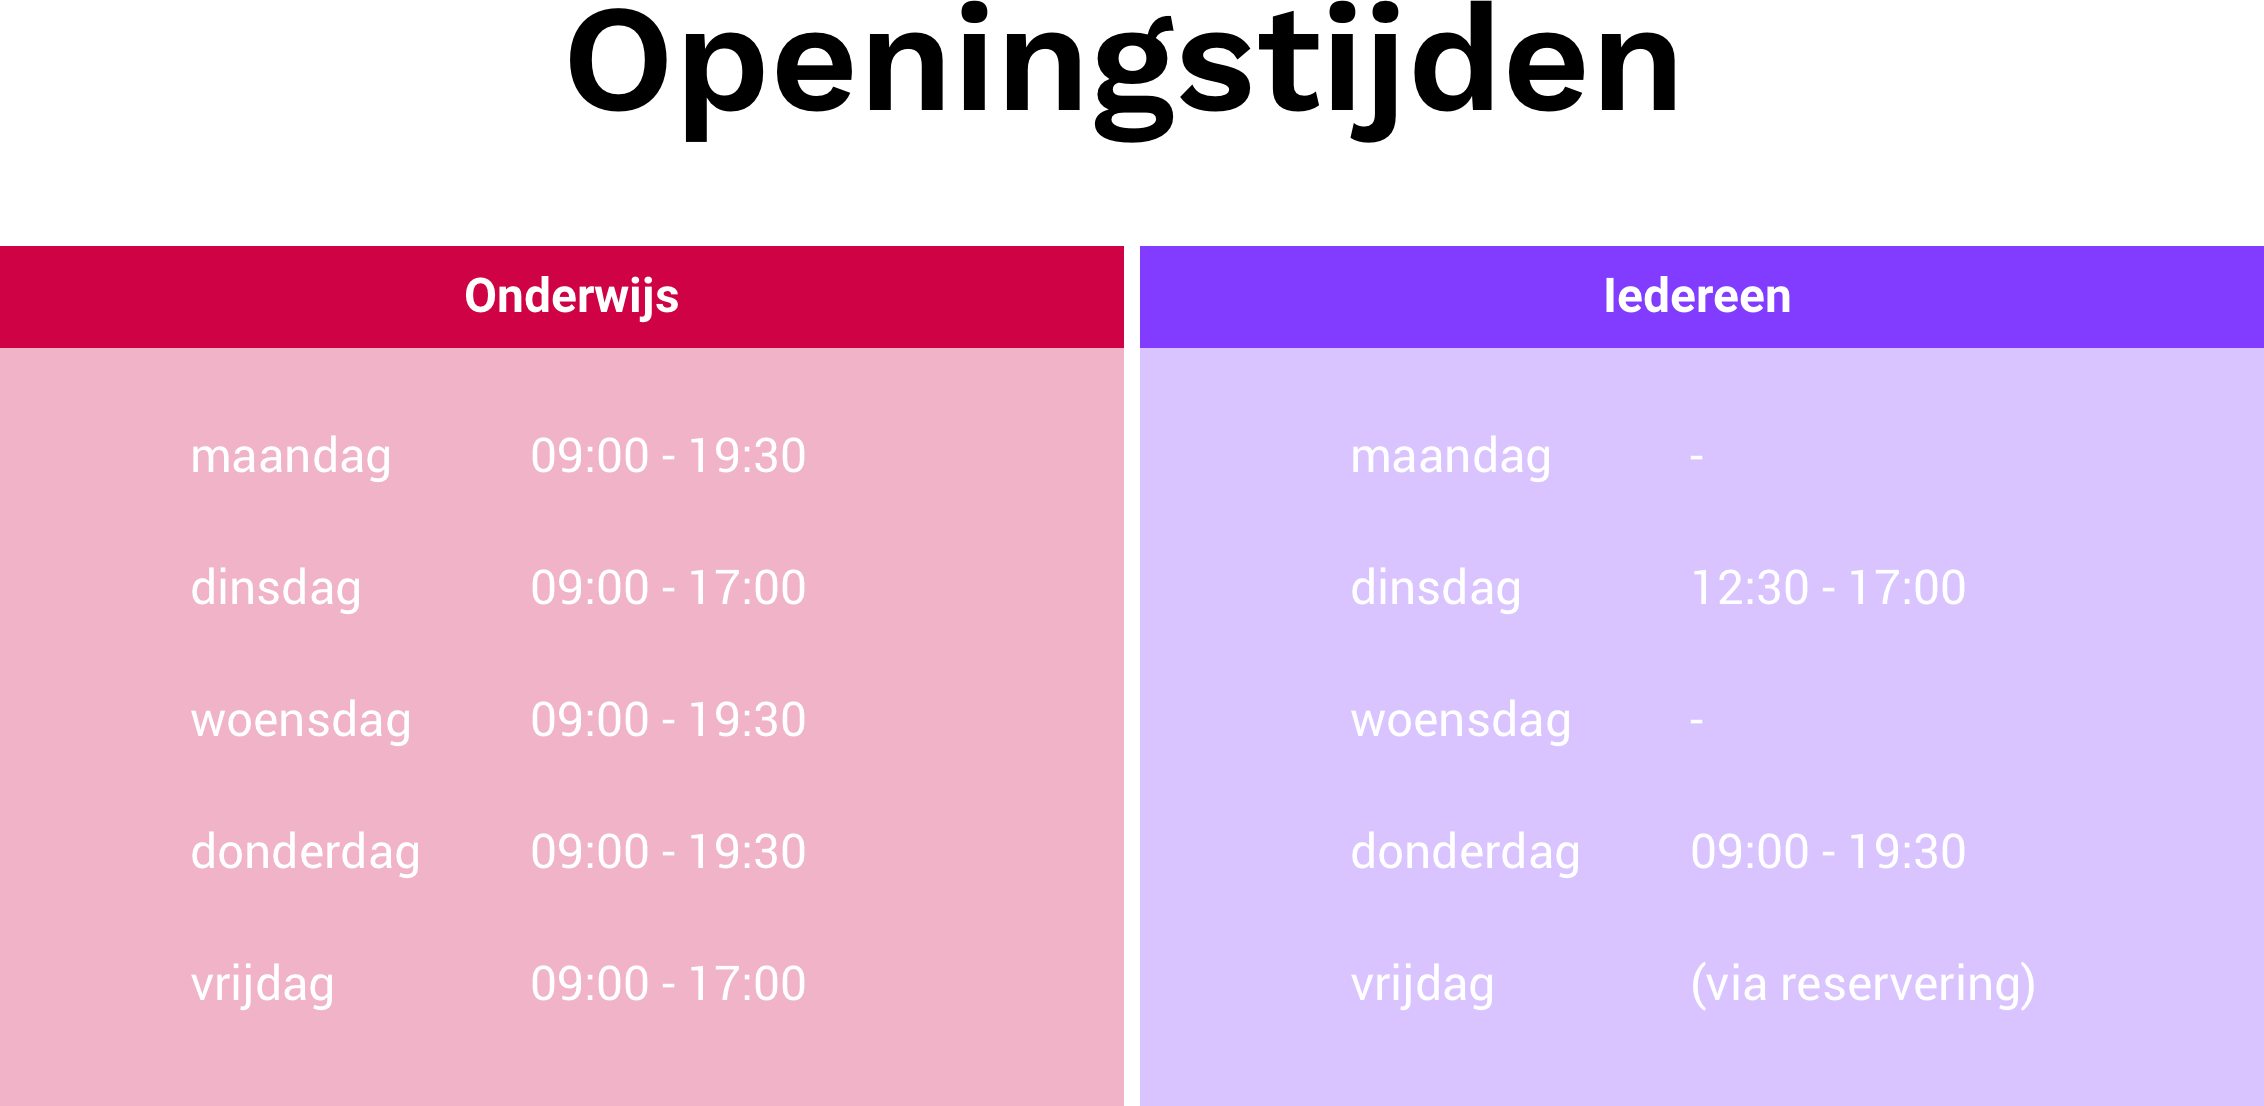
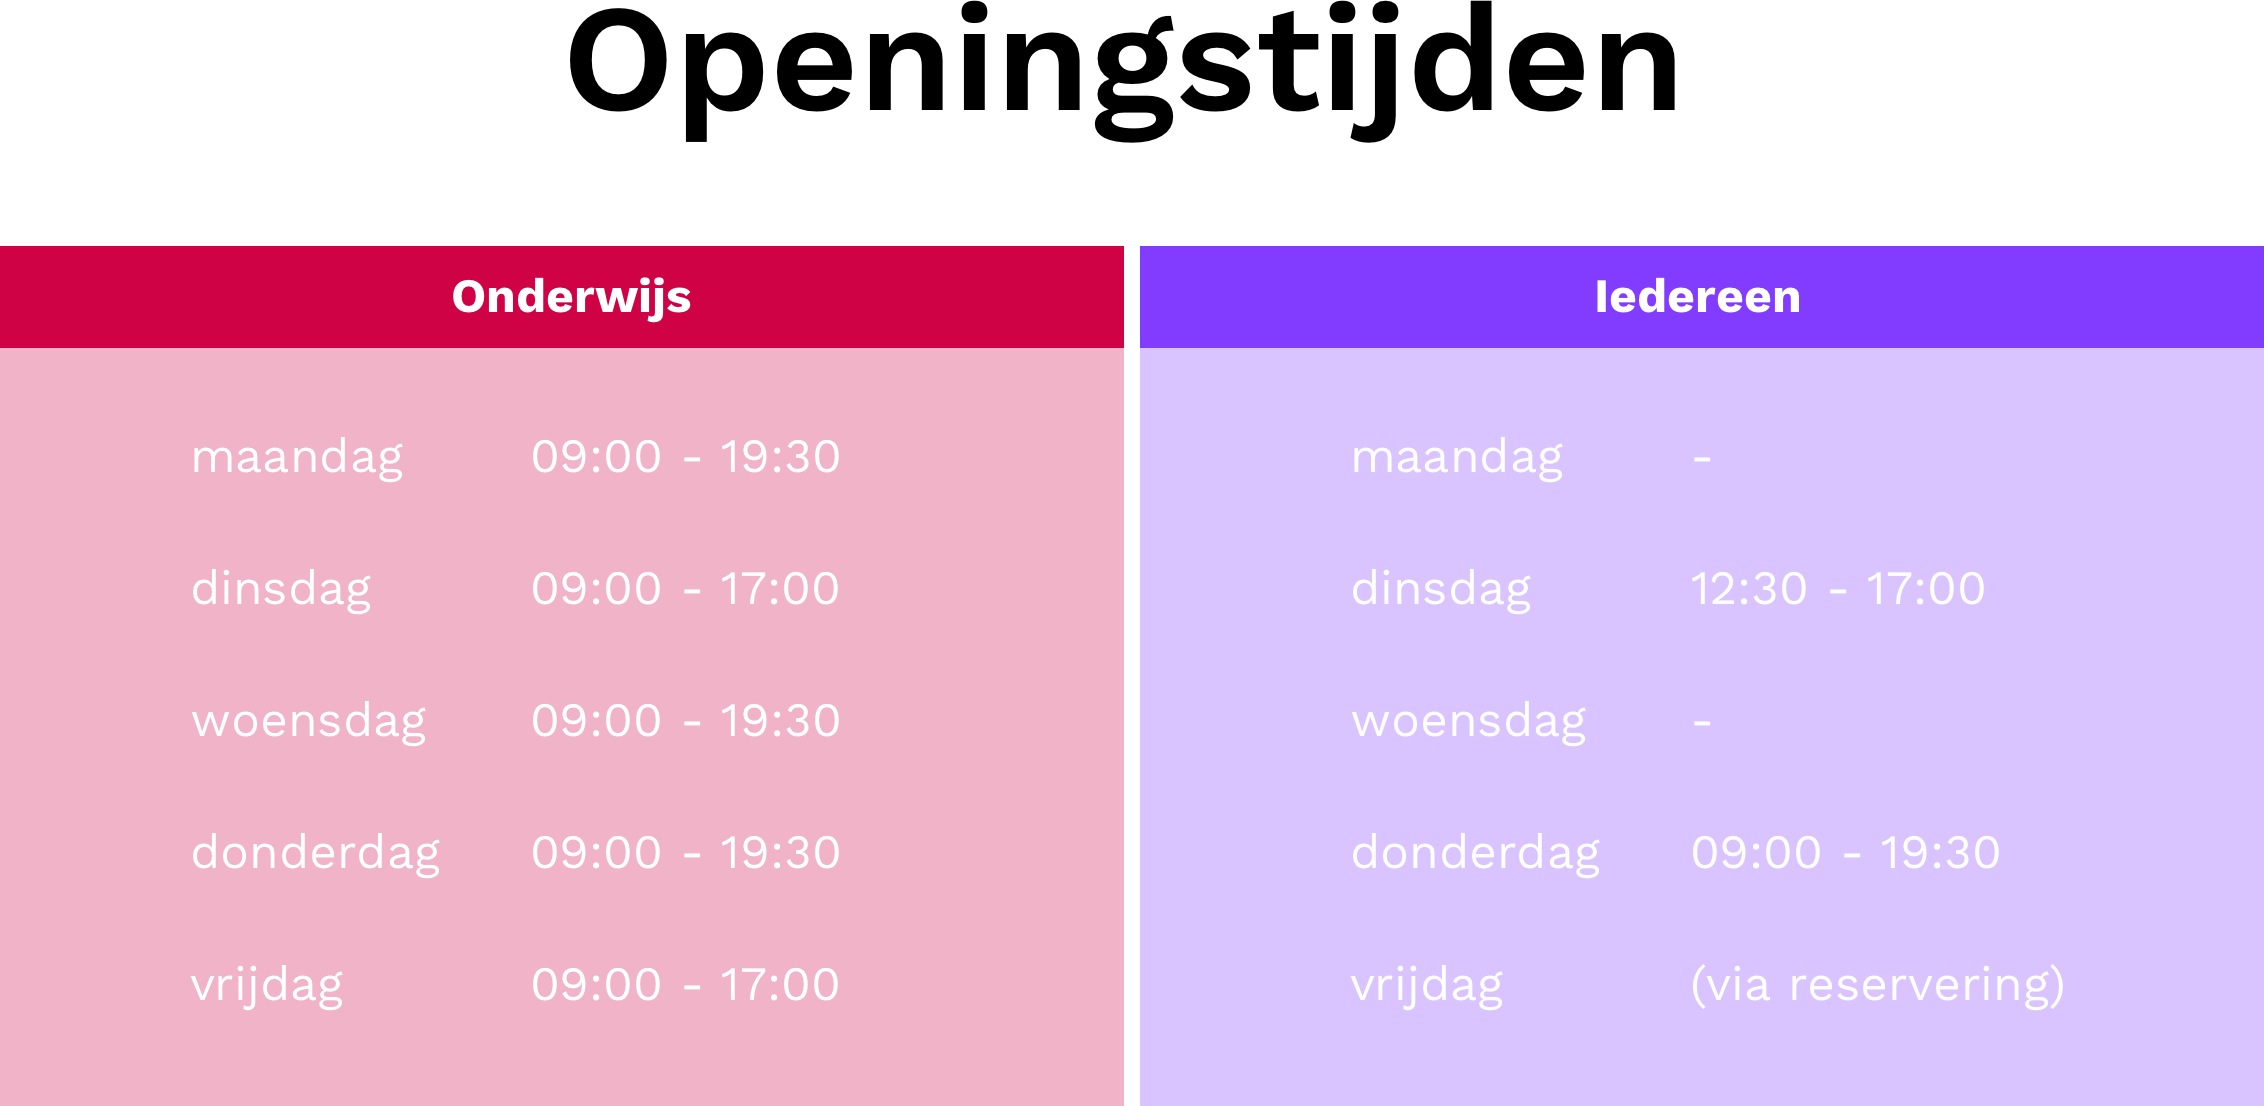
added content & new styling

diff --git a/css/main.css b/css/main.css
@@ -1,7 +1,7 @@
-@import url("https://fonts.googleapis.com/css?family=Roboto:300,400,500|Work+Sans:400,600");
+@import url("https://fonts.googleapis.com/css?family=Roboto:300,400,500|Work+Sans:400, 500,600");
 html {
   color: #333;
-  font-family: "Roboto", sans-serif;
+  font-family: "Work Sans", sans-serif;
   font-size: 100%;
   line-height: 1.5; }
 
@@ -46,7 +46,7 @@ p {
       font-size: 12px; } }
 
 strong {
-  font-weight: 500; }
+  font-weight: 600; }
 
 a {
   color: #1565c0;
@@ -101,7 +101,7 @@ main {
   min-height: -webkit-calc((9 / 16) * 100vw);
   min-height: calc((9 / 16) * 100vw);
   position: relative;
-  background-image: url("../assets/img/stadslab.jpg");
+  background-image: url("../assets/img/stadslab_front.jpg");
   -webkit-background-size: cover;
           background-size: cover;
   background-position: center center; }
@@ -119,7 +119,7 @@ main {
     color: white;
     margin-bottom: 0; }
   .hero__meta h2 {
-    font-family: "Roboto", sans-serif;
+    font-family: "Work Sans", sans-serif;
     font-size: 23px;
     line-height: 30px;
     font-weight: 400; }
@@ -144,7 +144,7 @@ main {
     display: inline-block;
     position: relative;
     text-align: center;
-    color: #E8AE21;
+    color: #ffce00;
     text-decoration: none;
     font-size: 20px;
     overflow: hidden;
@@ -152,7 +152,7 @@ main {
     .container a:after {
       content: '';
       position: absolute;
-      background: #E8AE21;
+      background: #ffce00;
       height: 2px;
       width: 0%;
       -webkit-transform: translateX(-50%);
@@ -211,7 +211,7 @@ main {
 
 .overlay {
   position: fixed;
-  background: #E8AE21;
+  background: #ffce00;
   top: 0;
   left: 0;
   width: 100%;
@@ -327,30 +327,32 @@ h2.post-wrapper {
     h2.post-wrapper {
       font-size: 24px; } }
 
-section.post-wrapper h3 {
-  font-family: "Roboto", sans-serif;
-  font-size: 24px;
-  line-height: 1.3em;
-  font-weight: 700;
-  margin-top: 0;
-  margin-bottom: 0; }
-  @media (max-width: 767px) {
-    section.post-wrapper h3 {
-      font-size: 16px; } }
-
-section.post-wrapper p {
-  font-family: "Work Sans", sans-serif;
-  font-size: 21px;
-  margin-bottom: 1.5em; }
-  @media (max-width: 767px) {
-    section.post-wrapper p {
-      font-size: 11px; } }
-
-section.post-wrapper ul {
-  font-family: "Roboto", sans-serif;
-  font-size: 24px;
-  font-weight: 300;
-  line-height: 2.75em; }
-  @media (max-width: 767px) {
-    section.post-wrapper ul {
-      font-size: 12px; } }
+section.post-wrapper {
+  /*
+    ul{ 
+        font-family: $base-font-family;
+        font-size: 24px;
+        font-weight:300;
+        //line-height:2.75em;
+        @include phone{
+            font-size:12px;
+        }
+    }
+    */ }
+  section.post-wrapper h3 {
+    font-family: "Work Sans", sans-serif;
+    font-size: 24px;
+    line-height: 1.3em;
+    font-weight: 700;
+    margin-top: 0;
+    margin-bottom: 0; }
+    @media (max-width: 767px) {
+      section.post-wrapper h3 {
+        font-size: 16px; } }
+  section.post-wrapper p, section.post-wrapper ul {
+    font-family: "Work Sans", sans-serif;
+    font-size: 21px;
+    margin-bottom: 1.5em; }
+    @media (max-width: 767px) {
+      section.post-wrapper p, section.post-wrapper ul {
+        font-size: 11px; } }

diff --git a/_scss/_post.scss b/_scss/_post.scss
@@ -34,7 +34,7 @@ section.post-wrapper{
             font-size:16px;
         }
     }
-    p{  
+    p, ul{  
         font-family: $heading-font-family;
         font-size: 21px;
         margin-bottom: $base-spacing;
@@ -42,13 +42,15 @@ section.post-wrapper{
             font-size:11px;
           }
     }
+    /*
     ul{ 
         font-family: $base-font-family;
         font-size: 24px;
         font-weight:300;
-        line-height:2.75em;
+        //line-height:2.75em;
         @include phone{
             font-size:12px;
         }
     }
+    */
 }

diff --git a/_includes/menu.html b/_includes/menu.html
@@ -4,10 +4,10 @@
 <div class="overlay" id="overlay">
     <nav class="overlay-menu">
     <ul>
-        <li><a href="#">Home</a></li>
-        <li><a href="#">Over</a></li>
-        <li><a href="#">Machines</a></li>
-        <li><a href="#">Contact</a></li>
+        <li><a href="/">Home</a></li>
+        <li><a href="/labs">Labs</a></li>
+        <li><a href="/kosten">Kosten</a></li>
+        <li><a href="/open-badge/">Open Badge</a></li>
     </ul>
     </nav>
 </div>

diff --git a/_layouts/post.html b/_layouts/post.html
@@ -11,6 +11,7 @@
 
     </head>
     <body>
+          {% include menu.html %}
           <header class="header hero hero--post">
             <section class="hero__meta">
                 <h1 class="title">{{ page.title }}</h1>
@@ -26,7 +27,8 @@
             </section>
             
           </main>
-          
+    <script src="//cdnjs.cloudflare.com/ajax/libs/jquery/2.1.3/jquery.min.js"></script>
+    <script src="../js/main.js"></script>
     </body>
 </html>
 

diff --git a/gulpfile.js b/gulpfile.js
@@ -45,4 +45,4 @@ function sassBuild(){
 exports.default = series(parallel(sassBuild, jekyllBuild), browserSyncInit );
 
 watch('./_scss/**/*.scss', sassBuild);
-watch(['*.html', '*.md','_layouts/*.html' , '_posts/*',  '_machines/*', '_data/*'], series(jekyllBuild,browserSyncReload ));
+watch(['*.html', '*.md','_layouts/*.html' , '_posts/*',  '_machines/*', '_data/*', 'labs/*', 'kosten/*' ,'open-badge/*'], series(jekyllBuild,browserSyncReload ));

diff --git a/_scss/_base/_base.scss b/_scss/_base/_base.scss
@@ -1,7 +1,7 @@
-@import url('https://fonts.googleapis.com/css?family=Roboto:300,400,500|Work+Sans:400,600');
+@import url('https://fonts.googleapis.com/css?family=Roboto:300,400,500|Work+Sans:400, 500,600');
 
 
-$base-font-family: 'Roboto', sans-serif;
+$base-font-family: 'Work Sans', sans-serif;
 $heading-font-family: 'Work Sans', sans-serif;
 
 

diff --git a/_scss/_parts/hero.scss b/_scss/_parts/hero.scss
@@ -1,7 +1,7 @@
 .hero{
     @include ratio(16, 9);
     position: relative;
-    background-image:url('../assets/img/stadslab.jpg');
+    background-image:url('../assets/img/stadslab_front.jpg');
     background-size:cover;
     background-position:center center;
     &--post{

diff --git a/_scss/_parts/menu.scss b/_scss/_parts/menu.scss
@@ -1,4 +1,4 @@
-$color-main: #E8AE21;
+$color-main: $color-yellow;
 $color-active: #FFF;
 $color-link: #FFF;
 

diff --git a/_scss/_base/_typography.scss b/_scss/_base/_typography.scss
@@ -49,7 +49,7 @@ html {
   }
   
   strong{
-    font-weight:500;
+    font-weight:600;
   }
 
   a {

diff --git a/labs/index.md b/labs/index.md
@@ -1,0 +1,21 @@
+---
+layout: post
+title: Labs
+classes: 
+---
+
+![alt text](../assets/svg/logo.svg "Stadslab"){: .logo}
+
+**Stadslab Rotterdam bestaat uit een aantal labs. De drie pijlers van het lab zijn (1) meten: sensortechnologie voor het meten en detecteren van verschillende signalen; (2) weten: verzamelen, verwerken en presenteren van data; en (3) doen: digitale fabricagetechnologieen voor het vervaardigen van een breed scala aan prototypes - (bijna) alle dingen die een fablab kan produceren.**
+
+
+## (1) Sensorlab
+Steeds meer apparaten om ons heen zijn uitgerust met sensoren, die vanalles meten. In Stadslab Rotterdam werken we met diverse (vaak open source) sensoren en netwerk applicaties om verschillende dingen te meten en detecteren. Hier kun je werken met microcontrollers als Arduino en Raspberry Pi. Maar je kunt ook spelen met elektronica met behulp van MakeyMakey, LittleBITS of de microbit. Hierbij is voor ons iedereen een programmeur, en helpen we je graag jouw talent in elektronica ontdekken.
+
+## (2) Datalab
+Het Datalab opereerde voorheen als Open Data Lab, waarin werd gewerkt aan het ontsluiten van en experimenteren met (open) data, en zit nu in een transitie naar Human-Centered Data-lab. Het datalab van Stadslab Rotterdam heeft als doel: “Making Human-Centered Sense of Data”. De fysieke verschijningsvorm van het Human-Centered Data-Lab krijgt de gestalte van een Visual Hub. Doel is om interactieve data showcases overal in het CMI-gebouw toegankelijk te maken, zowel in de klassieke klassikale omgeving als ook binnen de lab-setting van het Stadslab Rotterdam. 
+
+## (3) Fablab
+Fablab is een wereldwijde community van FabLabs. De naam is een samentrekking van Fabrication Laboratory. Een FabLab is een openbare digitale werkplaats waar mensen worden uitgenodigd om zelf dingen te maken door middel van verschillende technieken en waar het openlijk delen van ontwerpen en ideeën wordt aangemoedigd. Of anders gezegd: een FabLabs is een werkplaats die laagdrempelige toegang biedt tot een aantal computergestuurde prototyping machines, waarmee gebruikers hun ideeën kunnen omzetten naar tastbare producten.
+
+Stadslab Rotterdam heeft in een aantal lasersnijders, meerdere en diverse 3D-printers, een foliesnijder, een naaimachine en een vacuümvormer. Een belangrijk kenmerk van fablabs is dat zij hun kennis delen met andere fablabs. Het zijn zijn vaak kweekvijvers voor innovaties.

diff --git a/open-badge/index.md b/open-badge/index.md
@@ -1,0 +1,26 @@
+---
+layout: post
+title: Open Badge
+classes: 
+---
+
+**CMI gaat vanaf schooljaar 2019-2020 van start met het gebruiken van Digital Open Badges om (extra-)curriculair onderwijs te faciliteren. Dit soort onderwijs vindt nu al plaats in de vorm van ‘Make-workshops’ in Stadslab Rotterdam. Een open badge is een visueel, digitaal en betrouwbaar digitaal bewijs van een vaardigheid of competentie die je hebt verworven. Vanaf juli 2019 is het mogelijk om in Stadslab Rotterdam zogeheten Open Badges te verdienen.**
+
+Badges zijn digitale insignes (afbeeldingen), die aantonen dat de ontvanger over bepaalde kennis of vaardigheden beschikt. Achter de afbeelding bevindt zich niet-kopieerbare en niet aanpasbare digitale informatie over de uitgever en de waarde van de badge.
+
+Open Badges zijn nog relatief nieuw. Wij draaien mee in de pilot van SURFnet, de badges die we binnen deze pilot verstrekken heten Edubages. De badges zijn open en aangesloten bij andere initiatieven, dus ook na de pilot blijven deze badges bestaan.
+
+## Schrijf je hier in voor 1 van de workshops of backpack sessions! (alleen voor studenten)
+
+### Aanmelden EduID & Edubadges
+
+Om een badge te kunnen verdienen heb je een EduID nodig. Volg deze stappen om voorbereid te zijn voor een open badge.
+
+- Maak een EduID aan op [https://eduid.pilot.eduid.nl/portal/login](https://eduid.pilot.eduid.nl/portal/login)
+- Gebruik (indien mogelijk) je HR e-mailadres.
+- Bevestig de e-mail die je krijgt.
+- Login op [https://pilot.eduid.nl/portal/login](https://pilot.eduid.nl/portal/login) en koppel aan onderwijsinstelling HRO (bij beveiligingsinstellingen)
+- Ga naar [https://pilot.edubadges.nl](https://pilot.edubadges.nl) en geef toestemming. Schrijf je in voor een van de open badges workshops (als je de kennis nog niet bezit) of schrijf je meteen in voor een backpack sessie waarop je bewijst dat je de badge verdient (/deze skill beheerst).
+
+Alle mogelijke momenten van workshops en sessies vind je hier: [https://stadslabrotterdam.nl/open-badge/inschrijving-open-badges/](https://stadslabrotterdam.nl/open-badge/inschrijving-open-badges/)
+Meer informatie kun je vinden in de algemene handleiding edubadges van SURF

diff --git a/kosten/index.md b/kosten/index.md
@@ -1,0 +1,8 @@
+---
+layout: post
+title: Kosten
+classes: 
+---
+
+**Aan het gebruik van de apparatuur tijdens open inloop zijn geen kosten verbonden. In ruil hiervoor vragen wij je kennis te delen, door middel van het achterlaten van een foto, het bronbestand en de gebruikte instellingen van wat je hebt gemaakt. Wat we hiermee willen bereiken is dat mensen zien wat jij gemaakt hebt en dit ook kunnen maken. Geheimhouding is niet mogelijk, tenzij je een machine commercieel huurt op vrijdag. Tegen betaling zijn machines te reserveren (alleen op vrijdagen) via [mailto:info@stadslabrotterdam.nl](info@stadslabrotterdam.nl).**
+
